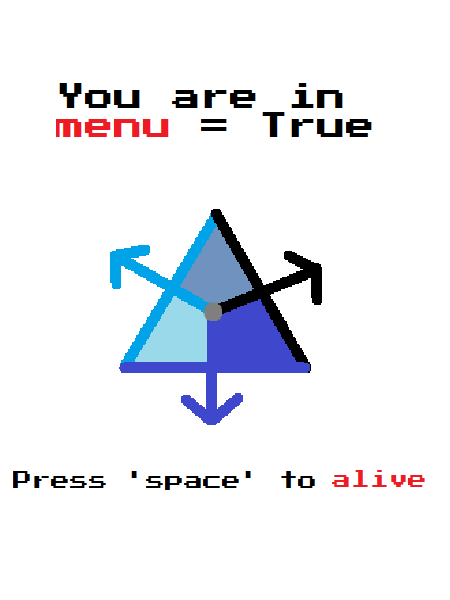
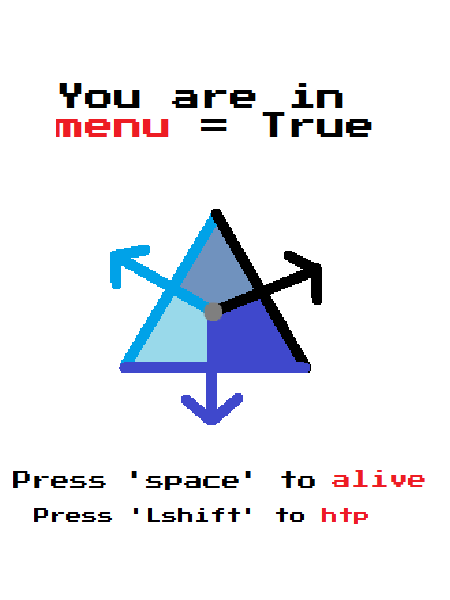
Added things' placeholder to placeholding things

diff --git a/meteor.py b/meteor.py
@@ -59,7 +59,7 @@ def display_score():
 
 # meta and inner works
 pygame.init()
-screen = pygame.display.set_mode((450, 600)) #450*600 
+screen = pygame.display.set_mode((450, 600)) #450*600
 icon = pygame.image.load('asset/icon.png').convert() # 100*100 or smaller
 pygame.display.set_caption('Meteor Panic!')
 pygame.display.set_icon(icon)
@@ -67,32 +67,37 @@ clock = pygame.time.Clock()
 gamefont = pygame.font.Font('asset/PressStart2P.ttf', 13)
 
 # initial state
+menu = True
 alive = False
+how_to = False
 start_time = 0
 final_time = mili2format(0)
+speed = 4
 
 # stuff to draw
-gameover = pygame.image.load('asset/gameover.png').convert_alpha()
+gameover = pygame.image.load('asset/gameover.png').convert_alpha() # 450*600
 ground_surface = pygame.image.load('asset/ground.png').convert() # 450*100
 sky_surface = pygame.image.load('asset/sky.png').convert() # 450*600 
 exo_surface = pygame.image.load('asset/fallen_sky.png').convert() # 450*125
+main_menu = pygame.image.load('asset/main_menu.png') # 450*600
+tutorial = pygame.image.load('asset/how_to_screen.png') # 450*600
 
 # event
 meteor_time_1 = pygame.USEREVENT + 1
-pygame.time.set_timer(meteor_time_1, random.randint(1500, 3000))
+pygame.time.set_timer(meteor_time_1, random.randint(2500, 3500)) ## biggest one
 meteor_time_2 = pygame.USEREVENT + 2
-pygame.time.set_timer(meteor_time_2, random.randint(450, 500))
+pygame.time.set_timer(meteor_time_2, random.randint(1000, 1500)) ## long
 meteor_time_3 = pygame.USEREVENT + 3
-pygame.time.set_timer(meteor_time_3, random.randint(550, 700))
+pygame.time.set_timer(meteor_time_3, random.randint(500, 1250)) ## smallest
 
 # meteor
-meteor1 = pygame.image.load('asset/meteor_var_1.png').convert()
+meteor1 = pygame.image.load('asset/meteor_var_1.png').convert() #50*50
 meteor1_rect = meteor1.get_rect(center = (random.randint(-50, 550), -100))
 meteor1_rect_list = []
-meteor2 = pygame.image.load('asset/meteor_var_2.png').convert()
+meteor2 = pygame.image.load('asset/meteor_var_2.png').convert() #40*55
 meteor2_rect = meteor2.get_rect(center = (random.randint(-50, 550), -100))
 meteor2_rect_list = []
-meteor3 = pygame.image.load('asset/meteor_var_3.png').convert()
+meteor3 = pygame.image.load('asset/meteor_var_3.png').convert() #30*30
 meteor3_rect = meteor3.get_rect(center = (random.randint(-50, 550), -100))
 meteor3_rect_list = []
 
@@ -108,31 +113,59 @@ while True:
         if event.type == pygame.QUIT:
             pygame.quit()
             exit()
-        if event.type == meteor_time_1:
-            meteor1_rect_list.append(meteor1.get_rect(center = (random.randint(0, 550), 0)))
-        if event.type == meteor_time_2:
-            meteor2_rect_list.append(meteor2.get_rect(center = (random.randint(0, 550), 0)))
-        if event.type == meteor_time_3:
-            meteor3_rect_list.append(meteor3.get_rect(center = (random.randint(0, 550), 0)))
+        if alive:
+            if event.type == meteor_time_1:
+                meteor1_rect_list.append(meteor1.get_rect(center = (random.randint(0, 550), 0)))
+            if event.type == meteor_time_2:
+                meteor2_rect_list.append(meteor2.get_rect(center = (random.randint(0, 550), 0)))
+            if event.type == meteor_time_3:
+                meteor3_rect_list.append(meteor3.get_rect(center = (random.randint(0, 550), 0)))
     ###########################
 
     ########## Input ##########
-    if key[pygame.K_d] and character_rect.x < 385: # Go Right
-        character_rect.x += 4
-    if key[pygame.K_a] and character_rect.x > 0: # Go Left
-        character_rect.x -= 4
-    if key[pygame.K_SPACE] and alive == False:
-        character_rect.x = 200
-        alive = True
-        start_time = pygame.time.get_ticks()
+    if alive and menu == False:
+        if key[pygame.K_d] and character_rect.x < 385: # Go Right
+            character_rect.x += speed
+        if key[pygame.K_a] and character_rect.x > 0: # Go Left
+            character_rect.x -= speed
+    if key[pygame.K_SPACE]:
+        if menu == False and how_to == False:
+            character_rect.x = 200
+            alive = True
+            start_time = pygame.time.get_ticks()
+        elif menu:
+            alive = True
+            menu = False
+    if key[pygame.K_LSHIFT]:
+        if menu:
+            menu = False
+            alive = False
+            how_to = True
+    if key[pygame.K_ESCAPE]:
+        if alive == False and menu == False and how_to == False:
+            menu = True
+            how_to = False
+            alive = False
+            meteor1_rect_list.clear()
+            meteor2_rect_list.clear()
+            meteor3_rect_list.clear()
+        if alive == True and menu == False and how_to == False:
+            menu = True
+            how_to = False
+            alive = False
+            meteor1_rect_list.clear()
+            meteor2_rect_list.clear()
+            meteor3_rect_list.clear()
+        elif alive == False and menu == False and how_to == True:
+            menu = True
+            how_to = False
     ###########################
     
     ########## The Game Itself ##########
-    if alive:
+    if alive == True and menu == False and how_to == False:
         ### enviroment
         final_time = mili2format(display_score())
         screen.blit(sky_surface, (0,0))
-        screen.blit(gamefont.render('Press \'esc\' to quit', False, 'black'), (10, 10))
         ### stuff that change
         meteor1_rect_list = meteor1_movment(meteor1_rect_list)
         meteor2_rect_list = meteor2_movment(meteor2_rect_list)
@@ -142,14 +175,17 @@ while True:
         ### die condition
         if collision(character_rect,meteor1_rect_list):
             alive = False
+            how_to == False
         if collision(character_rect,meteor2_rect_list):
             alive = False
+            how_to == False
         if collision(character_rect,meteor3_rect_list):
             alive = False
+            how_to == False
         screen.blit(exo_surface, (0,0))
         screen.blit(ground_surface,(0,500))
         display_score()
-    elif alive == False:
+    elif alive == False and menu == False and how_to == False:
         meteor1_rect_list.clear()
         meteor2_rect_list.clear()
         meteor3_rect_list.clear()
@@ -158,7 +194,11 @@ while True:
         screen.blit(gameover, (0,0))
         pygame.draw.rect(screen,'black',(75,275,300,50))
         screen.blit(final, final_rect)
+    elif alive == False and menu == True and how_to == False:
+        screen.blit(main_menu, (0,0))
+    elif alive == False and menu == False and how_to == True:
+        screen.blit(tutorial, (0,0))
     #####################################
-
+    print('menu: %r | alive: %r | how_to: %r' %(menu,alive,how_to))
     pygame.display.update()
     clock.tick(60)
